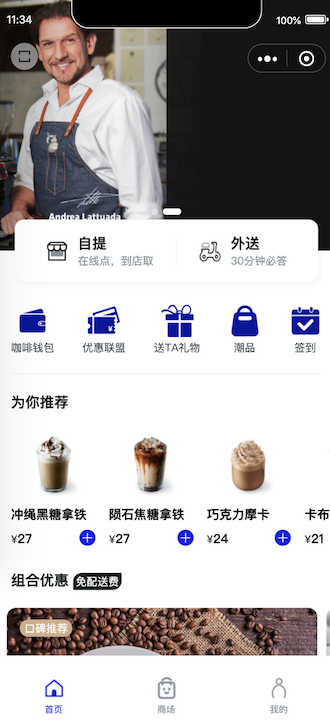
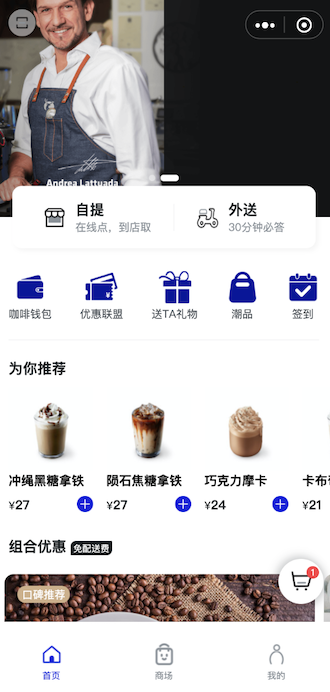
首页: 潮品组件,购物车组件,署名组件

diff --git a/components/home/home_trendy/index.js b/components/home/home_trendy/index.js
@@ -1,0 +1,60 @@
+// components/home/home_trendy/index.js
+Component({
+  /**
+   * 组件的属性列表
+   */
+  properties: {
+   
+  },
+
+  /**
+   * 组件的初始数据
+   */
+  data: {
+    trendyData: [
+      {
+        image: "/image/test/trendy_i1.png",
+        name: "英伦温暖马克杯·蓝",
+        price: 88,
+        num: 701
+      },
+      {
+        image: "/image/test/trendy_i2.png",
+        name: "英伦温暖马克杯·红",
+        price: 88,
+        num: 701
+      },
+      {
+        image: "/image/test/trendy_i.png",
+        name: "关名陶瓷内壁咖啡杯·白",
+        price: 258,
+        num: 701
+      },
+      {
+        image: "/image/test/trendy_i3.png",
+        name: "关名陶瓷内壁咖啡杯·蓝",
+        price: 258,
+        num: 701
+      },
+      {
+        image: "/image/test/trendy_i4.png",
+        name: "肖战定制款「小赞杯」",
+        price: 88,
+        num: 701
+      },
+      {
+        image: "/image/test/trendy_i5.png",
+        name: "雪人双层陶瓷杯",
+        price: 88,
+        num: 701
+      }
+    ]
+  },
+
+  /**
+   * 组件的方法列表
+   */
+  methods: {
+
+  }
+})

diff --git a/components/home/home_trendy/home_trendy_item/index.js b/components/home/home_trendy/home_trendy_item/index.js
@@ -1,0 +1,31 @@
+// components/home/home_trendy/home_trendy_item/index.js
+Component({
+  /**
+   * 组件的属性列表
+   */
+  properties: {
+    itemData: {
+      type: Object,
+      value: {
+        image: "/image/test/trendy_i1.png",
+        name: "英伦温暖马克杯·蓝",
+        price: 88,
+        num: 701
+      }
+    }
+  },
+
+  /**
+   * 组件的初始数据
+   */
+  data: {
+
+  },
+
+  /**
+   * 组件的方法列表
+   */
+  methods: {
+
+  }
+})

diff --git a/components/button/button_shop_cart/index.js b/components/button/button_shop_cart/index.js
@@ -1,0 +1,23 @@
+// components/button/button_shop_cart/index.js
+Component({
+  /**
+   * 组件的属性列表
+   */
+  properties: {
+
+  },
+
+  /**
+   * 组件的初始数据
+   */
+  data: {
+
+  },
+
+  /**
+   * 组件的方法列表
+   */
+  methods: {
+
+  }
+})

diff --git a/components/signature/index.js b/components/signature/index.js
@@ -1,0 +1,23 @@
+// components/signature/index.js
+Component({
+  /**
+   * 组件的属性列表
+   */
+  properties: {
+
+  },
+
+  /**
+   * 组件的初始数据
+   */
+  data: {
+
+  },
+
+  /**
+   * 组件的方法列表
+   */
+  methods: {
+
+  }
+})
